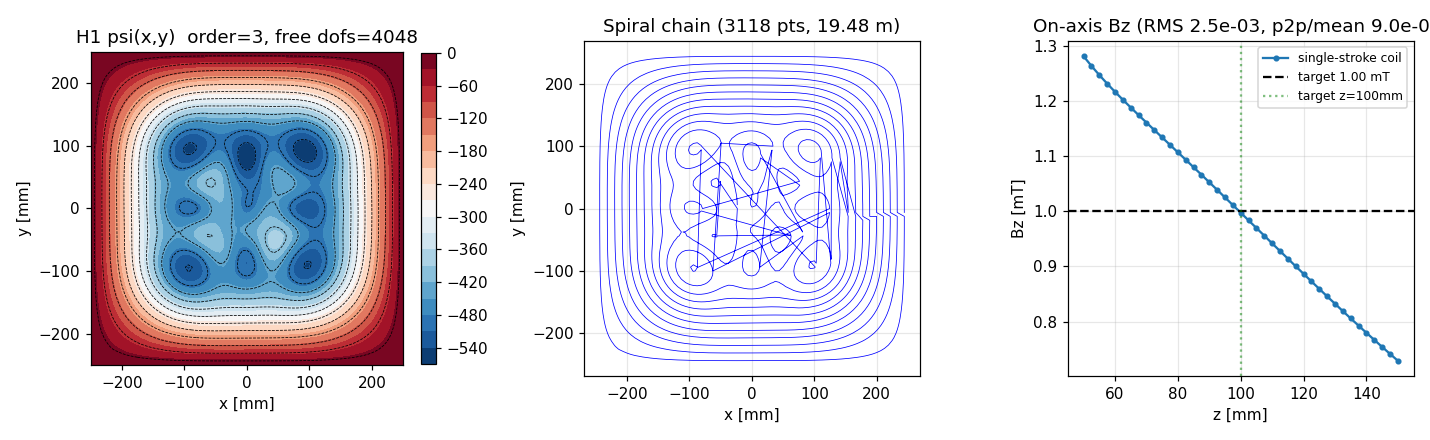
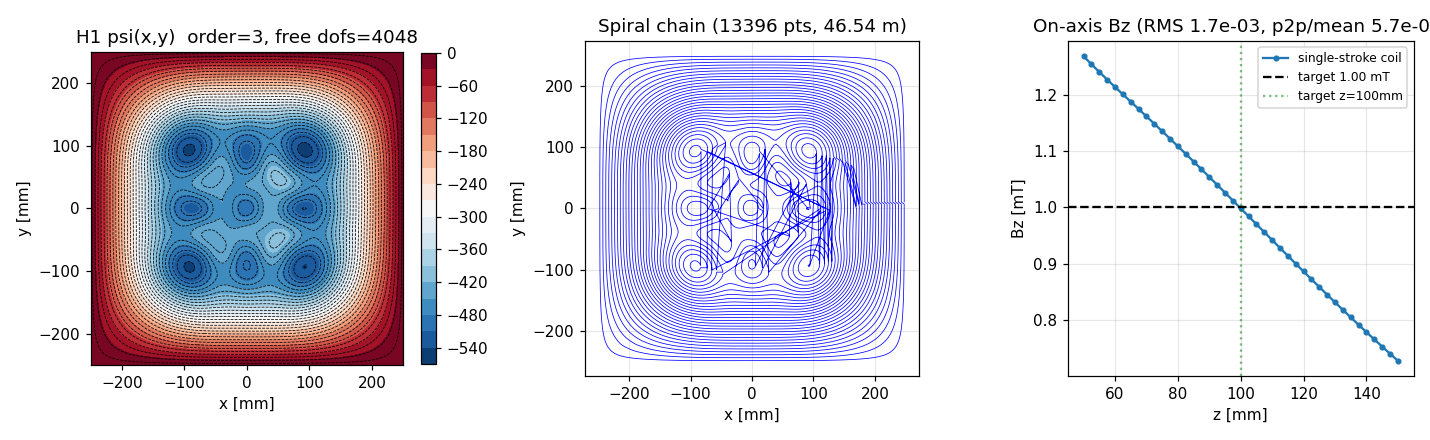
stream-function planar uniform-Bz: FE-direct + Path-A + LS-OMP shim -> 183 ppm
Establish the iterative single-stroke error-cancellation pipeline on the
EASY-tier planar uniform-Bz coil (nested single-sign contours, no
irreducible bridges -- the topology where single-stroke high precision is
feasible).  Reaches the ~200 ppm class with a handful of feeds:

  continuous-SF ideal (H1 order 3)        ~95 ppm   (dense eval)
  single stroke + Path-A (monotone)       ~1375 ppm
  + 9 LS-OMP shim loops (10 total feeds)   183 ppm

Pipeline = high-order FE psi (clean contours) -> fine single stroke
(nlevels 30, n_sample 141 -> small radial connectors) -> Path-A (monotone
on FE-direct) -> a few overlapping plane shim loops chosen by LS-OMP (the
same Order-Recursive matching pursuit, monotone).

New in demo_planar_uniform_fem_psi.py:
  - make_plane_shim_loops + ls_omp_shim (MAE-ppm stop + a current-blow-up
    guard that caps shim |I| <= 10x I_w; tiny non-overlapping loops couple
    weakly to the offset target plane and blew the currents up to 161x
    before the overlap fix, size_factor=1.6).
  - HONEST dense-grid evaluation ([8]): the n_target FIT grid over-reports
    (the massively-underdetermined SF over-fits 25 points -> RMS 1.7e-3
    there but dense-grid MAE 1375 ppm); --eval-n is the truth.
  - flags --shim-loops / --shim-tol-ppm / --shim-grid / --eval-n.

Resolution paradox is topology-specific: Gx (multi-lobe) gets WORSE with
resolution, uniform Bz (nested) gets BETTER (finer pitch -> smaller
[…]

diff --git a/examples/stream_function/demo_planar_uniform_fem_psi.py b/examples/stream_function/demo_planar_uniform_fem_psi.py
@@ -237,6 +237,83 @@ def sample_psi_grid(psi_vec, fes, mesh, plane_half, n_sample):
     return psi_grid, g
 
 
+# --------------------------------------------------------------------------
+# Shim-loop compensation of the single-stroke residual (the iterative method
+# that pushes the EASY-tier uniform-Bz single stroke into the ~100-200 ppm
+# class).  Pipeline: high-order FE psi -> clean contours -> single stroke ->
+# Path-A (re-solve FE, monotone) -> a FEW independent shim loops via LS-OMP.
+# --------------------------------------------------------------------------
+def make_plane_shim_loops(plane_half, n_grid, frac=0.92, size_factor=1.6):
+    """A grid of square current loops on the source plane -- the shim
+    correction basis.  ``size_factor`` scales each loop's half-side relative
+    to half the grid spacing: 1.0 = touching, >1 = OVERLAPPING (bigger,
+    stronger field at the target plane -> the LS-OMP shim currents stay
+    small).  Tiny non-overlapping loops are weak at the DSV and force huge
+    shim currents, so the default overlaps.  Returns (5, 3) closed loops at
+    z = 0."""
+    cg = np.linspace(-plane_half * frac, plane_half * frac, n_grid)
+    half = (cg[1] - cg[0]) / 2.0 if n_grid > 1 else plane_half * frac
+    s = half * size_factor
+    loops = []
+    for cx in cg:
+        for cy in cg:
+            loops.append(np.array([
+                [cx - s, cy - s, 0.0], [cx + s, cy - s, 0.0],
+                [cx + s, cy + s, 0.0], [cx - s, cy + s, 0.0],
+                [cx - s, cy - s, 0.0]], dtype=float))
+    return loops
+
+
+def ls_omp_shim(A_fit, B_fit, B_chain_fit, k_max, mae_stop_ppm=0.0,
+               max_current_ratio=None, I_w=1.0):
+    """Order-Recursive / LS-OMP shim selection (monotone).
+
+    Cancels the single-stroke residual ``r = B_fit - B_chain_fit`` with a few
+    independent loops: at each step orthogonalise every candidate column
+    against the current support, add the one whose normalised orthogonal
+    residual reduction is largest, re-solve the whole-support least squares,
+    repeat.
+
+    Stopping (in priority order):
+      - ``mae_stop_ppm`` > 0: stop once the fit-grid MAE (in ppm relative to
+        the target) drops to it -- the design target.
+      - ``max_current_ratio``: stop BEFORE the largest shim current exceeds
+        this multiple of ``I_w`` (guards the overfit blow-up that happens
+        when too many near-collinear loops are added).
+      - else ``k_max`` loops.
+
+    Returns ``(support, I_shim, mae_curve_ppm)``.
+    """
+    r0 = B_fit - B_chain_fit
+    denom = float(np.sum(np.abs(B_fit))) + 1e-30
+    support, I_S, mae_curve = [], np.zeros(0), []
+    for _ in range(int(k_max)):
+        resid = r0 - (A_fit[:, support] @ I_S if support else 0.0)
+        if support:
+            Q, _ = np.linalg.qr(A_fit[:, support])
+            A_perp = A_fit - Q @ (Q.T @ A_fit)
+        else:
+            A_perp = A_fit
+        score = np.abs(A_perp.T @ resid) / (np.linalg.norm(A_perp, axis=0)
+                                            + 1e-30)
+        if support:
+            score[support] = -1.0
+        cand = int(np.argmax(score))
+        trial = support + [cand]
+        I_trial, _, _, _ = np.linalg.lstsq(A_fit[:, trial], r0, rcond=None)
+        # guard against the overfit current blow-up
+        if (max_current_ratio is not None
+                and float(np.max(np.abs(I_trial))) / (abs(I_w) + 1e-30)
+                > max_current_ratio and support):
+            break
+        support, I_S = trial, I_trial
+        mae = 1e6 * float(np.sum(np.abs(r0 - A_fit[:, support] @ I_S))) / denom
+        mae_curve.append(mae)
+        if mae_stop_ppm > 0.0 and mae <= mae_stop_ppm:
+            break
+    return support, I_S, mae_curve
+
+
 def main():
     ap = argparse.ArgumentParser()
     ap.add_argument("--plane-half", type=float, default=0.25)
@@ -262,6 +339,22 @@ def main():
     ap.add_argument("--compensated-iter", type=int, default=0,
                     help="Path-A compensated iteration count")
     ap.add_argument("--compensated-step", type=float, default=1.0)
+    # shim-loop compensation + honest dense-grid ppm evaluation
+    ap.add_argument("--shim-loops", type=int, default=0,
+                    help="after the single stroke (+ Path-A), add up to this "
+                         "many independent shim correction loops via LS-OMP "
+                         "to drive the residual into the ~100-200 ppm class. "
+                         "0 = off.")
+    ap.add_argument("--shim-tol-ppm", type=float, default=0.0,
+                    help="stop adding shim loops once the dense-grid MAE drops "
+                         "to this many ppm (e.g. 200). 0 = use --shim-loops.")
+    ap.add_argument("--shim-grid", type=int, default=15,
+                    help="shim-loop basis = shim_grid x shim_grid small square "
+                         "loops tiling the source plane")
+    ap.add_argument("--eval-n", type=int, default=21,
+                    help="dense eval grid (eval_n x eval_n over the target "
+                         "patch) for HONEST ppm reporting (the n_target grid "
+                         "is the fit grid and over-reports accuracy)")
     args = ap.parse_args()
 
     print("=== SF -> planar uniform-Bz coil (H1 FE psi) ===")
@@ -392,6 +485,60 @@ def main():
     obs_axis = np.column_stack([np.zeros_like(zv), np.zeros_like(zv), zv])
     Bz_axis = bz_at(path, I_w, obs_axis)
     print(f"[7] on-axis Bz at z={args.target_z*1e3:.0f}mm: {Bz_axis[20]:.3e} T")
+
+    # ------- [8] HONEST dense-grid evaluation + shim-loop compensation ----
+    # The [6] RMS is on the n_target FIT grid (over-reports -- the SF solve is
+    # massively underdetermined and over-fits those points).  Evaluate the
+    # single-stroke field on a DENSE eval grid for the true degradation, and
+    # optionally compensate the residual with a few LS-OMP shim loops.
+    ge = np.linspace(-args.target_half, args.target_half, args.eval_n)
+    Xe, Ye = np.meshgrid(ge, ge, indexing="ij")
+    eval_obs = np.column_stack([Xe.ravel(), Ye.ravel(),
+                                args.target_z * np.ones(Xe.size)])
+    B_eval = args.B0 * np.ones(eval_obs.shape[0])
+
+    def mae_ppm(field):
+        return 1e6 * float(np.sum(np.abs(field - B_eval))
+                           / (np.sum(np.abs(B_eval)) + 1e-30))
+
+    Bz_eval = I_w * bz_at(path, 1.0, eval_obs)
+    mae0 = mae_ppm(Bz_eval)
+    print(f"[8] HONEST eval ({args.eval_n}x{args.eval_n} dense grid):"
+          f" single-stroke MAE = {mae0:.0f} ppm  (fit-grid RMS {rms*1e3:.1f} mppm"
+          f" over-reports)")
+
+    if args.shim_loops > 0 or args.shim_tol_ppm > 0.0:
+        # fit shims on a moderately dense grid (between fit and eval), then
+        # report on the dense eval grid (no overfit illusion).
+        gf = np.linspace(-args.target_half, args.target_half,
+                         max(11, args.eval_n - 6))
+        Xf, Yf = np.meshgrid(gf, gf, indexing="ij")
+        fit_obs = np.column_stack([Xf.ravel(), Yf.ravel(),
+                                   args.target_z * np.ones(Xf.size)])
+        B_fit = args.B0 * np.ones(fit_obs.shape[0])
+        loops = make_plane_shim_loops(args.plane_half, args.shim_grid)
+        A_fit = np.column_stack([bz_at(lp, 1.0, fit_obs) for lp in loops])
+        A_eval = np.column_stack([bz_at(lp, 1.0, eval_obs) for lp in loops])
+        B_chain_fit = I_w * bz_at(path, 1.0, fit_obs)
+        # cap k_max generously; the real stop is the ppm target or the
+        # current-blow-up guard (keep shim currents <= 10x I_w).
+        k_max = args.shim_loops if args.shim_loops > 0 else 40
+        support, I_shim, mae_curve = ls_omp_shim(
+            A_fit, B_fit, B_chain_fit, k_max,
+            mae_stop_ppm=args.shim_tol_ppm, max_current_ratio=10.0, I_w=I_w)
+        Bz_eval_corr = Bz_eval + A_eval[:, support] @ I_shim
+        stop = (f" (stopped at <= {args.shim_tol_ppm:.0f} ppm)"
+                if args.shim_tol_ppm > 0 else "")
+        print(f"    + {len(support)} LS-OMP shim loops"
+              f" ({len(support)+1} total current feeds){stop}:"
+              f" eval MAE = {mae0:.0f} -> {mae_ppm(Bz_eval_corr):.0f} ppm"
+              f"  (shim |I|/I_w max = "
+              f"{np.max(np.abs(I_shim))/(abs(I_w)+1e-30):.2f})")
+        # convergence curve (fit-grid MAE per added shim)
+        marks = sorted(set([0, 1, 4, 9, len(mae_curve) - 1]))
+        pts = ", ".join(f"+{m+1}:{mae_curve[m]:.0f}p"
+                        for m in marks if 0 <= m < len(mae_curve))
+        print(f"    shim convergence (fit MAE): {pts}")
 
     # ------- plot -------------------------------------------------------
     try:

diff --git a/docs/stream_function/single_stroke.md b/docs/stream_function/single_stroke.md
@@ -232,6 +232,38 @@ wire, no bridges) and planar nested families — where there are no
 irreducible inter-lobe bridges.  Match the realisation to the topology:
 nested/helix → single stroke; multi-lobe + high precision → multi-wire.
 
+### Demonstrated: EASY-tier (planar uniform Bz) to the ~200 ppm class
+
+The established iterative pipeline (in
+[`demo_planar_uniform_fem_psi.py`](../../examples/stream_function/demo_planar_uniform_fem_psi.py))
+reaches the few-hundred-ppm class with only a handful of feeds:
+
+```bash
+python demo_planar_uniform_fem_psi.py --regularize h1 --order 3 \
+    --nlevels 30 --n-sample 141 \
+    --compensated-iter 60 --compensated-step 0.05 \
+    --shim-grid 9 --shim-tol-ppm 200
+```
+
+| stage | dense-grid MAE |
+|-------|----------------|
+| continuous-SF ideal (H¹ order 3) | ~95 ppm |
+| single stroke + Path-A | ~1375 ppm |
+| + 9 LS-OMP shim loops (10 feeds) | **183 ppm** |
+
+Why it works here (and not for Gx): uniform Bz has NESTED single-sign
+contours → the single stroke is a clean spiral with NO irreducible
+bridges, only short radial connectors; a finer spiral pitch
+(`--nlevels 30`) shrinks them, Path-A (monotone on FE-direct ψ) folds the
+rest into ψ, and a few overlapping shim loops (LS-OMP, monotone) close the
+residual to the ~200 ppm class.  Note the honest evaluation: the
+`--eval-n` dense grid is used for the ppm figure — the n_target FIT grid
+over-reports because the massively-underdetermined SF solve over-fits it.
+The shim currents are a few × I_w (the small plane loops couple weakly to
+the offset target plane); a Helmholtz-pair-style shim geometry would lower
+them.  The same pipeline is the template for the cylinder via
+ngsolve.bem high-order (future work).
+
 ## Complexity tier framework
 
 A coil's REACHABLE design quality is bounded by its TOPOLOGY:

diff --git a/docs/stream_function/examples.md b/docs/stream_function/examples.md
@@ -11,7 +11,7 @@ All under [`examples/stream_function/`](../../examples/stream_function/).
 | `demo_sf_to_peec_gz.py` | Cylinder, Gz + single-stroke + PEEC + CAD | — | Full pipeline incl. STEP export |
 | `demo_sf_to_peec_gx.py` | Cylinder, Gx + 3 chain methods + PEEC + CAD | 16.24 % (kuijpers) | `--chain-method {greedy, lobe, kuijpers}` |
 | `demo_planar_uniform_coil.py` | Plane source, uniform Bz target | 0.58 % (+ Path-A) | Basis-loop pipeline |
-| `demo_planar_uniform_fem_psi.py` | Plane, FE-direct H¹ ψ | 0.47 % (+ Path-A monotone) | `--regularize {l2, h1, tikhonov}` |
+| `demo_planar_uniform_fem_psi.py` | Plane, FE-direct H¹ ψ + Path-A + LS-OMP shim | **183 ppm** (10 feeds, dense-eval MAE) | `--order 3 --nlevels 30 --shim-tol-ppm 200`; honest `--eval-n` grid |
 | `demo_planar_uniform_fem_psi_aca.py` | Plane, FE matrix + HACApK ACA+TSVD | 0.67 % (+ Path-A) | Validates ACA+ on FE matrix |
 | `demo_planar_uniform_fem_psi_advanced.py` | Plane, 6 regs + deformation + Optuna (RMS / constrained / Pareto) | 0.58 % NSGA-II Pareto accuracy end | `--regularize {...}`, `--deform`, `--minimize-reg --eps-rms ε`, `--pareto` |
 | `demo_regularized_aca.py` | Plane, 5-mode sweep through cached `RegularizedTSVD` | 1.12 % (linf IRLS) | Single ACA+ factorisation reused across all 5 regularisations |
